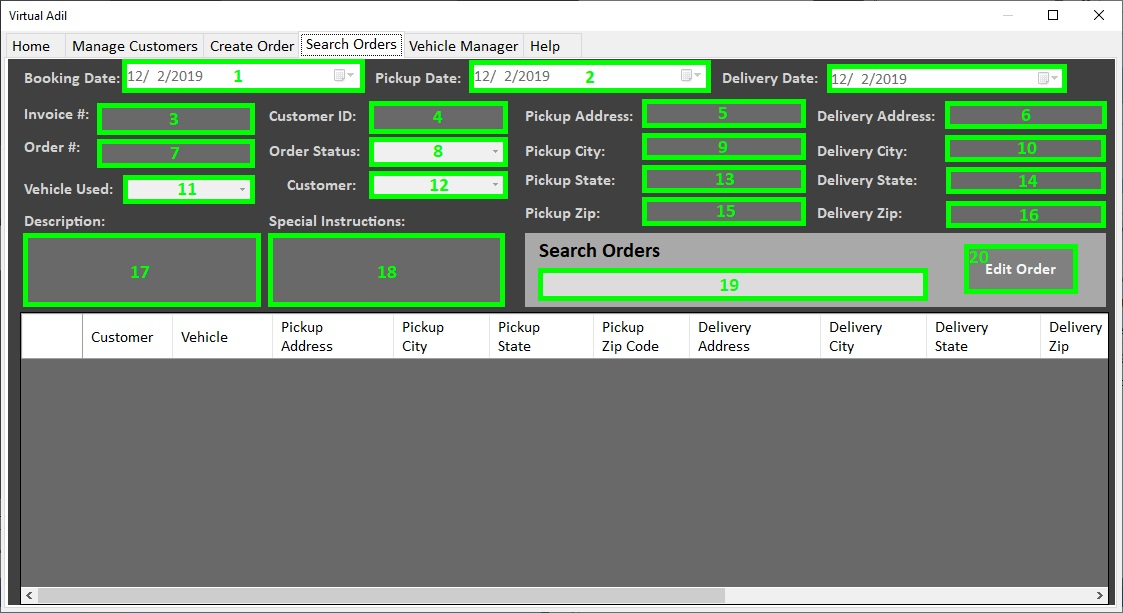
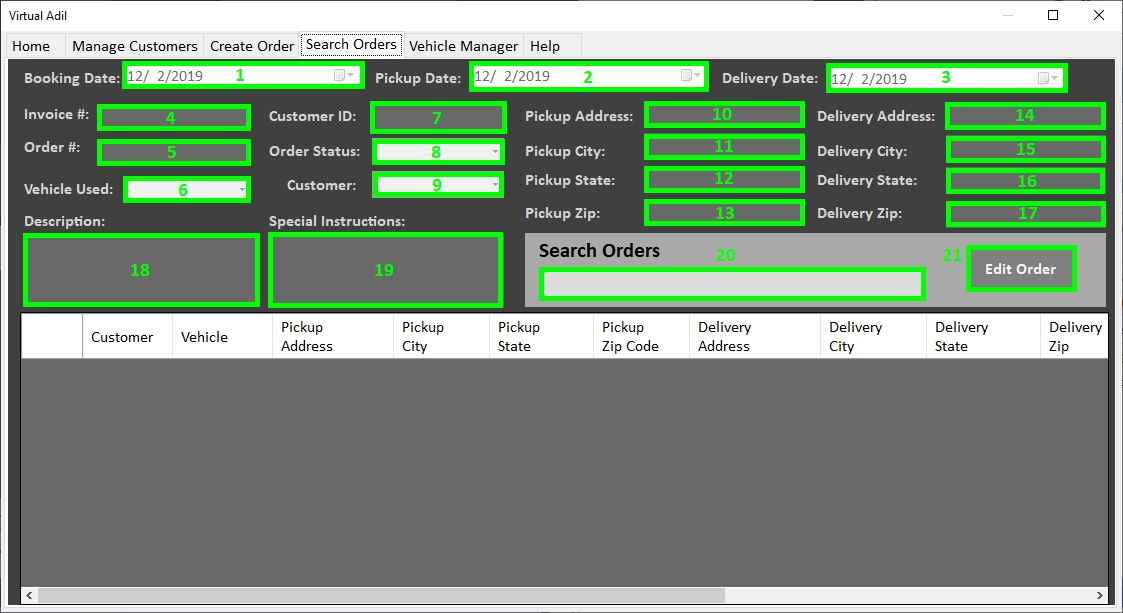
Help file update

diff --git a/Resources/Help/test.md b/Resources/Help/test.md
@@ -1,0 +1,209 @@
+# Virtual Adil: Help
+
+## Table of Contents:
+* <a href="#top">**Welcome to Virtual Adil**</a>
+* <a href="#homepage">**Home Page**</a>
+* <a href="#managecustomers">**Manage Customers**</a>
+    * <a href="#managecustomersvisual">Manage Customers - Visual Reference</a>
+* <a href="#createorders">**Create Orders**</a>
+    * <a href="#createordersvisual">Create Orders - Visual Reference</a>
+* <a href="#searchorders">**Search Orders**</a>
+    * <a href="#searchordersvisual">Search Orders - Visual Reference</a>
+* <a href="#vehiclemanager">**Vehicle Manager**</a>
+    * <a href="#vehiclemanagervisual">Vehicle Manager - Visual Reference</a>
+
+<a id="top"></a>
+## Welcome to Virtual Adil!
+**Virtual Adil** is a software program created by DaphAdil Consulting for keeping track of a shipping company's clients and work orders. This help page will provide you with instructions on how to use the various components of the software and diagrams showing the function of certain components.
+
+<a id="homepage"></a>
+## Home Page
+
+This is the first page the user will see when they launch the application, sometimes known as a *splash screen*. This page simply acts as a welcoming graphic for the user, and a notification that it is ready to use. To start using Virtual Adil, click on one of the other tabs at the top of the application window. 
+
+![homepage](home.jpg)
+
+<a id="managecustomers"></a>
+## Manage Customers
+
+The **Manage Customers** tab is where new customers are added to the Customer table. The user can also use this window to make changes to existing customer records. The left side of the window allows the user to interact with each field of data, while the right side displays a list of existing records in the Virtual Adil database, along with controls that allow the user to sort and search the fields.
+
+>**Note: Database Terms** <br>A full customer entry (including name, address, phone number, etc.) is referred to as a **record** in this document. <br>A single bit of information (like Zip Code) is called a **field**. A full customer **record** is made up of ten **fields**. <br>All of the **records** combined make up the full Customer **table**, which, like the Orders **table**, is part of the Virtual Adil **database**.
+
+### To Add a New Customer:
+
+1. Click the **Add New Customer** button to unlock the customer information fields for data entry.
+2. Fill in all of the fields.
+3. Hit the Save button to lock in your changes. Your new customer will immediately be entered into the database. 
+
+If the customer information is not immediately visible in the Table View, you can use the Search feature at the top of the window to find it and confirm that it has been entered *(read more about Search <a href="#searchingcustomers">below</a>).*
+
+### To Edit an Existing Customer: 
+
+1. Select the record (row) you wish to edit in the Table View on the right side of the window.
+2. Click the Edit Customer button to unlock the customer information fields for editing.
+3. Change any field you wish.
+4. Hit the Save button to lock in your changes. The customer record will be updated to reflect your changes.
+
+<a id="searchingcustomers"></a>
+### To Search for an Existing Customer:
+
+1. Simply type in the **Search** box. You will search in all fields for the information typed. Matches will be displayed in the Table View in the lower right.
+
+>**Note**: See the Visual Reference below for a description of each element in this tab.
+
+<a href="#top">Return to Table of Contents</a>
+
+<a id="managecustomersvisual"></a>
+## Manage Customers - Visual Reference
+![managecustomer-visual](managecustomer-visual.jpg)
+
+| Number | Field Name | Purpose |
+| ----| ---------- | ------- |
+| **1** | **First Name** | Customer's first name |
+| **2** | **Last Name** | Customer's last name |
+| **3** | **Phone #** | **Must be 10 digits.** Stores a phone number for contact info.  |
+| **4** | **Email** | **Must have proper form.**  Stores the customer email. Email cannot be entered without an "@" sign and "." in the proper place.|
+| **5** | **Company** | Company the customer represents |
+| **6** | **Address** | Street Address of the customer, used for billing |
+| **7** | **City** | City where the customer is located |
+| **8** | **State** | State where the customer is located |
+| **9** | **Zip Code** | Customer's ZIP Code |
+| **10** | **Broker Yes/No?** | Designates this contact as a broker. Doing this will allow you to distinguish and sort brokers separately if needed. |
+| **11** | **Add New Customer button** | This button is used to start the process of adding a new customer. Until this button is pressed, the customer information fields will remain inactive. |
+| **12** | **Edit Customer button** | **Select a record before pressing this button.** This button will give the user access to edit the currently selected record in the Table View.  |
+| **13** | **Save Button** | The Save button will save the current changes in the customer information fields. This button becomes active when Adding a new customer or when Editing an existing customer.  |
+| **14** | **Cancel Button** | The Cancel button cancels the Add or Edit operation, clearing out the customer information fields and leaving the database table unchanged. |
+| **15** | **Search Box** | Use the Search box to find customers. You can search by a word in any field. |
+<a href="#top">Return to Table of Contents</a>
+<a id="createorders"></a>
+## Create Orders
+
+The **Create Orders** tab is where new orders are added to the Orders table. <br>Across the top is customer information, which can be pulled in by selecting a customer in the dropdown menu in the far upper left. <br>Pickup and Dropoff Information specify the address information for the work order's origin and destination, and can be quickly filled out by using the Copy Customer Data control. <br>Booking Date keeps track of the date the order was received, and Pickup/Delivery Date reflect the date of pickup and dropoff. All three dates must be in the proper order (dropoff date cannot be before pickup date, for example). <br>Description and Special Instructions in the lower right are for any notes the user would like to add to the order. <br>Finally, the Order Status allows the user to flag a job as Pending, In Transit, Delayed, Complete, or Cancelled. The user can then use the Search Orders tab to search for orders by this status (for example, list all jobs that are Complete).
+
+>**Note: Database Terms** <br>A full work order entry (including pickup, dropoff, status, etc.) is referred to as a **record** in this document. <br>A single bit of information (like Booking Date) is called a **field**. A full work order **record** is made up of fifteen **fields**. <br>All of the **records** combined make up the full Orders **table**, which, like the Customers **table**, is part of the Virtual Adil **database**.
+
+### To Create a New Order 
+Once the customer information has been pulled in, it fills the top two rows of fields. This information can be edited here for use in the next step. 
+
+1. Use the customer dropdown menu in the upper left to select a customer. **Customers must be created in the Manage Customers tab before their information can be pulled into a Work Order.**
+2. Make any necessary edits to the fields if there are changes specific to this work order. (Permanent edits to customer records can be performed in the **Manage Customer** tab.)
+3. Fill out the Pickup Information section with the address of the pickup location. Clicking "Copy Customer Data" will pull the information in the fields at the top into these fields.
+4. Repeat Step 3 for the Dropoff Information section. You can change the customer listed at the top between Steps 3 and 4 to pull in different information.
+5. Specify the Booking, Pickup, and Delivery dates. Dates are checked to make sure they are in chronological order.
+6. Fill out Description and Special Instructions if desired; then choose an Order Status.
+7. Hit Save Order to save the order into the database.
+
+At any time, you can hit Cancel to discard your changes and leave the database unchanged.
+
+<a href="#top">Return to Table of Contents</a>
+<a id="createordersvisual"></a>
+## Create Orders - Visual Reference
+
+![createorder-visual](createorder-visual.jpg)
+
+| Number | Field Name | Purpose |
+| ----| ---------- | ------- |
+| **1** | **Customer** | Customer's name. Also pulls in corresponding data from the Customer table. |
+| **2** | **Company** | Customer's company name. |
+| **3** | **Phone** | **Must be 10 digits.** Stores a phone number for contact info.  |
+| **4** | **Email** | **Must have proper form.**  Stores the customer email. Email cannot be entered without an "@" sign and "." in the proper place.|
+| **5** | **Invoice #** | Invoice # is a user-editable field for entering order or invoice numbers for instant reference. |
+| **6** | **Address** | Street Address of the customer, used for billing |
+| **7** | **City** | City where the customer is located |
+| **8** | **State** | State where the customer is located |
+| **9** | **Zip** | Customer's ZIP code |
+| **10** | **Order #** | For database use only; do not edit |
+| **11** | **Vehicle Used** | Specifies the vehicle used to complete the order. |
+| **12-13** | **Copy Customer Data** | **Select a record before pressing this button.** When clicked, this copies the address information from the top fields into either Pickup or Dropoff Information.  |
+| **14-15** | **Pickup/Delivery Address** | Origin and destination street addresses for the work order  |
+| **16-17** | **Pickup/Delivery City** | Origin and destination cities |
+| **18-19** | **Pickup/Delivery State** | Origin and destination state |
+| **20-21** | **Pickup/Delivery Zip** | Origin and destination ZIP |
+| **22** | **Booking Date** | The date upon which the job was accepted |
+| **23** | **Pickup Date** | The date when the shipment needs to be picked up |
+| **24** | **Delivery Date** | The due date for shipment dropoff |
+| **25** | **Order Status** | Allows the user to mark the work order as Pending, In Transit, Delayed, Complete, or Cancelled |
+| **26** | **Create Order Button** | Initiates order creation and unlocks the Customer dropdown in the upper left to create a new order |
+| **27** | **Save Order Button** | Saves the new work order to the database. Incomplete fields may stop this button from saving until the fields are filled out. |
+| **28** | **Cancel Button** | Cancels order creation, making no changes to the database. |
+| **29** | **Description Box** | Box for user-readable info about the cargo, or anything else. |
+| **30** | **Special Instructions Box** | Box for user-readable special instructions concerning scheduling and directions for the work order. |
+
+<a href="#top">Return to Table of Contents</a>
+<a id="searchorders"></a>
+## Search Orders 
+
+The Search Orders tab allows the user to search all created Work Orders and edit them if needed. To search an order, type any text into the **Search Orders** box and hit Enter. The matching records will be displayed below in the Table View. 
+### To Edit a Record:
+1. Use Search to find the record you want to edit.
+2. Click on it in the Table View and hit Edit Order.
+3. Make the necessary edits.
+4. Hit the Save Order button (in the same spot the Edit Order button was).
+
+<a href="#top">Return to Table of Contents</a>
+<a id="searchordersvisual"></a>
+## Search Orders - Visual Reference
+
+![Home Page](searchorders-visual.jpg)
+
+<!-- | Number | Field Name | Purpose |
+| ----| ---------- | ------- |
+| **1** | **Booking Date** | Customer's first name |
+| **2** | **Pickup Date** | Customer's last name |
+| **3** | **Delivery Date** | **Must be 9 digits.** Stores a phone number for contact info.  |
+| **4** | **Email** | **Must have proper form.**  Stores the customer email. Email cannot be entered without an "@" sign and "." in the proper place.|
+| **5** | **Company** | Company the customer represents |
+| **6** | **Address** | Street Address of the customer, used for billing |
+| **7** | **City** | City where the customer is located |
+| **8** | **State** | State where the customer is located |
+| **9** | **Zip Code** | Customer's ZIP Code |
+| **10** | **Broker Yes/No?** | Designates this contact as a broker. Doing this will allow you to distinguish and sort brokers separately if needed. |
+| **11** | **Add New Customer button** | This button is used to start the process of adding a new customer. Until this button is pressed, the customer information fields will remain inactive. |
+| **12** | **Edit Customer button** | **Select a record before pressing this button.** This button will give the user access to edit the currently selected record in the Table View.  |
+| **13** | **Save Button** | The Save button will save the current changes in the customer information fields. This button becomes active when Adding a new customer or when Editing an existing customer.  |
+| **14** | **Cancel Button** | The Cancel button cancels the Add or Edit operation, clearing out the customer information fields and leaving the database table unchanged. |
+| **15** | **Search Box** | Use the Search box to find customers. You can search by a word in any field. | -->
+
+<a href="#top">Return to Table of Contents</a>
+<a id="vehiclemanager"></a>
+## Vehicle Manager
+
+The Vehicle Manager allows the user to create and store records of vehicles the company owns. They can then be associated with Work Orders as needed.
+
+### To Add a Vehicle:
+1. Click the Add Vehicle button.
+2. Enter the Vehicle name. This is the name that will be displayed when selecting a vehicle in the Create Orders and Search Orders tabs.
+3. Type any additional information in the Vehicle Notes field.
+4. Hit the Save button when finished.
+
+### To Edit a Vehicle:
+1. Select the vehicle in the Table View on the left.
+2. Hit the Edit button and make your changes.
+3. Hit the Save button when finished.
+
+<a href="#top">Return to Table of Contents</a>
+<a id="vehiclemanagervisual"></a>
+## Vehicle Manager - Visual Reference
+
+<!-- ![Home Page](managecustomer-visual.jpg) -->
+
+<!-- | Number | Field Name | Purpose |
+| ----| ---------- | ------- |
+| **1** | **First Name** | Customer's first name |
+| **2** | **Last Name** | Customer's last name |
+| **3** | **Phone #** | **Must be 9 digits.** Stores a phone number for contact info.  |
+| **4** | **Email** | **Must have proper form.**  Stores the customer email. Email cannot be entered without an "@" sign and "." in the proper place.|
+| **5** | **Company** | Company the customer represents |
+| **6** | **Address** | Street Address of the customer, used for billing |
+| **7** | **City** | City where the customer is located |
+| **8** | **State** | State where the customer is located |
+| **9** | **Zip Code** | Customer's ZIP Code |
+| **10** | **Broker Yes/No?** | Designates this contact as a broker. Doing this will allow you to distinguish and sort brokers separately if needed. |
+| **11** | **Add New Customer button** | This button is used to start the process of adding a new customer. Until this button is pressed, the customer information fields will remain inactive. |
+| **12** | **Edit Customer button** | **Select a record before pressing this button.** This button will give the user access to edit the currently selected record in the Table View.  |
+| **13** | **Save Button** | The Save button will save the current changes in the customer information fields. This button becomes active when Adding a new customer or when Editing an existing customer.  |
+| **14** | **Cancel Button** | The Cancel button cancels the Add or Edit operation, clearing out the customer information fields and leaving the database table unchanged. |
+| **15** | **Search Box** | Use the Search box to find customers. You can search by a word in any field. | -->
+
+<a href="#top">Return to Table of Contents</a>
